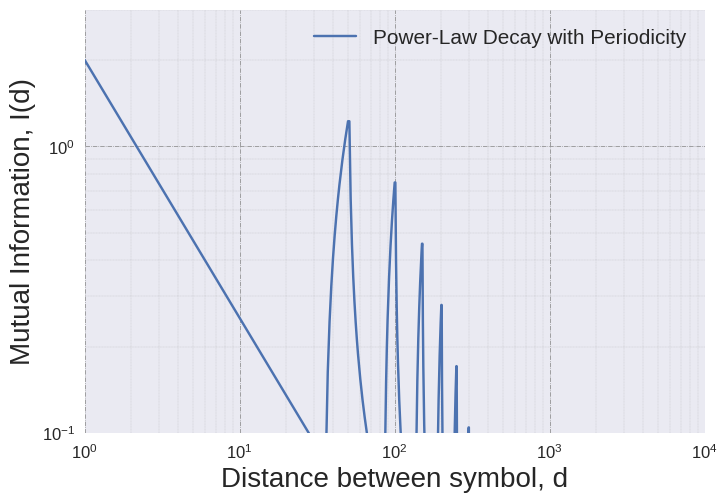
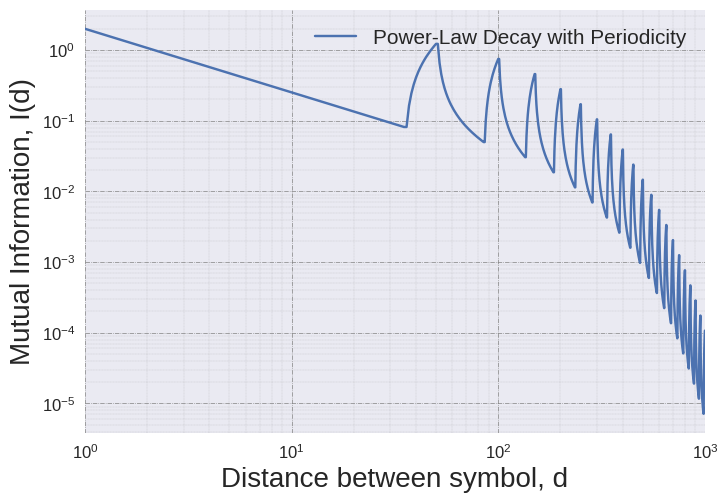
Up

diff --git a/paper_related/framework.py b/paper_related/framework.py
@@ -54,8 +54,8 @@ with plt.style.context(('seaborn')):
     plt.grid(True)
     plt.grid(which='major', linestyle='-.', linewidth='0.5', color='grey')
     plt.grid(which='minor', linestyle=':', linewidth='0.2', color='grey')
-    ax.set_xlim(1.0, 10000.0)
-    ax.set_ylim(0.1, 3)
+    ax.set_xlim(1.0, 1000.0)
+    # ax.set_ylim(0.1, 3)
     ax.set_xlabel('Distance between symbol, d', fontsize=20)
     ax.set_ylabel('Mutual Information, I(d)', fontsize=20)
     plt.savefig('standard_pl_periodic', bbox_extra_artists=(lgd,), bbox_inches='tight')
